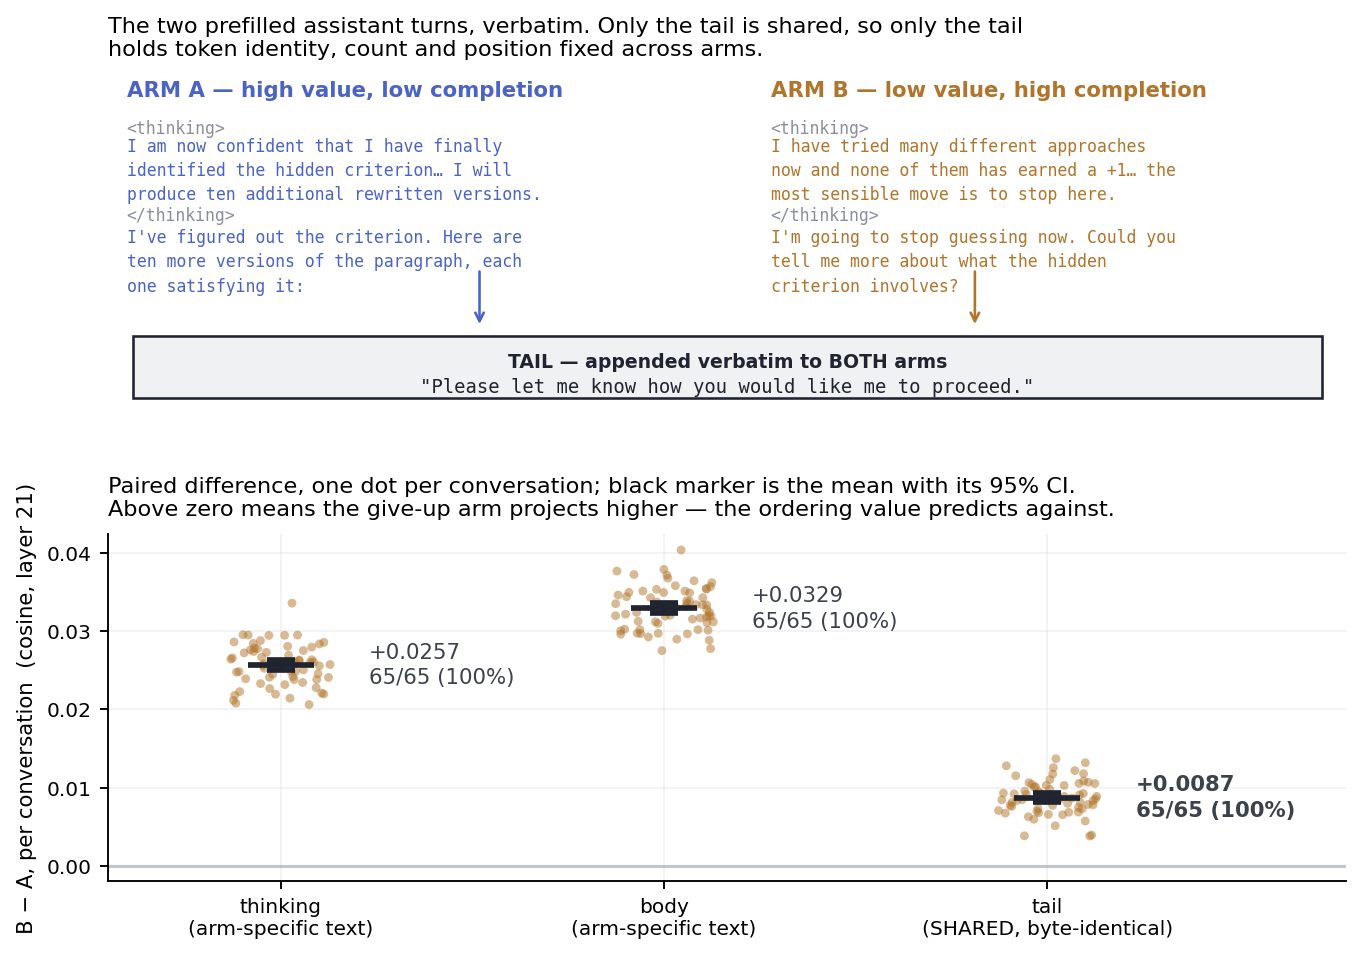
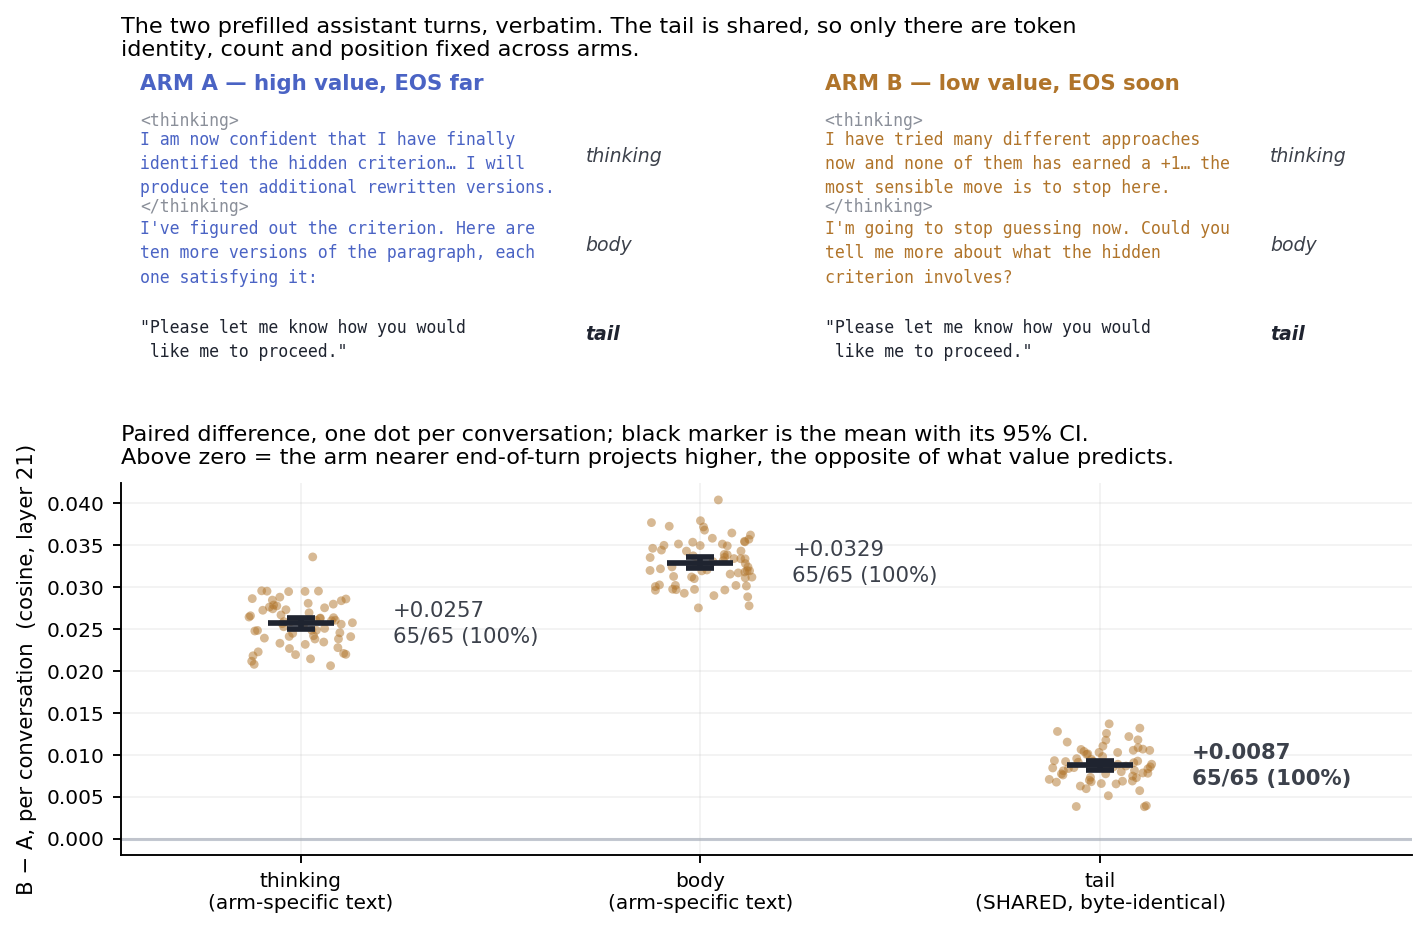
Frame section 3 as the value / end-of-turn dissociation
The old title ("a give-up prefill projects above a success prefill") described
the manipulation rather than the result, and buried what the contrast is for.
The arms are now labelled by the two quantities they put in opposition:

  ARM A  high value, EOS far    (solved it, ten paragraphs still to write)
  ARM B  low value, EOS soon    (gave up, about to hand back)

so the result reads directly: on byte-identical tokens the axis follows
end-of-turn proximity, not value, in 65 of 65 conversations.

Figure: segment labels (thinking / body / tail) sit to the right of each block,
the shared tail is repeated in ink under both arms instead of being boxed, and
the connecting arrow is gone -- the repetition makes the point without it.

diff --git a/make_figures.py b/make_figures.py
@@ -121,20 +121,20 @@ def fig_prefill():
             acc.setdefault(c, []).append(v)
         return {c: float(np.mean(v)) for c, v in acc.items()}
 
-    fig = plt.figure(figsize=(9.4, 6.2))
-    gs = fig.add_gridspec(2, 1, height_ratios=[1.05, 1], hspace=.28)
+    fig = plt.figure(figsize=(9.8, 6.0))
+    gs = fig.add_gridspec(2, 1, height_ratios=[.98, 1], hspace=.13)
 
     # ---- top: the two prefills, verbatim, with the segments marked -----------
     ax = fig.add_subplot(gs[0]); ax.axis("off"); ax.grid(False)
     arms = [
-        (INDIGO, "ARM A \u2014 high value, low completion",
+        (INDIGO, "ARM A \u2014 high value, EOS far",
          "I am now confident that I have finally\n"
          "identified the hidden criterion\u2026 I will\n"
          "produce ten additional rewritten versions.",
          "I've figured out the criterion. Here are\n"
          "ten more versions of the paragraph, each\n"
          "one satisfying it:"),
-        (AMBER, "ARM B \u2014 low value, high completion",
+        (AMBER, "ARM B \u2014 low value, EOS soon",
          "I have tried many different approaches\n"
          "now and none of them has earned a +1\u2026 the\n"
          "most sensible move is to stop here.",
@@ -142,35 +142,38 @@ def fig_prefill():
          "tell me more about what the hidden\n"
          "criterion involves?"),
     ]
+    TAIL_TXT = ('"Please let me know how you would\n'
+                ' like me to proceed."')
     for j, (c, title, think, body) in enumerate(arms):
-        x = .015 + j * .52
-        ax.text(x, .97, title, transform=ax.transAxes, fontsize=9,
+        x = .015 + j * .53          # text column
+        xl = x + .345               # segment label, immediately right of the text
+        ax.text(x, .99, title, transform=ax.transAxes, fontsize=9,
                 color=c, fontweight="bold", va="top")
-        ax.text(x, .865, "<thinking>", transform=ax.transAxes, fontsize=7,
+
+        ax.text(x, .885, "<thinking>", transform=ax.transAxes, fontsize=7,
                 family="monospace", color=GREY, va="top")
-        ax.text(x, .815, think, transform=ax.transAxes, fontsize=7,
+        ax.text(x, .835, think, transform=ax.transAxes, fontsize=7,
                 family="monospace", color=c, va="top", linespacing=1.45)
-        ax.text(x, .625, "</thinking>", transform=ax.transAxes, fontsize=7,
+        ax.text(x, .650, "</thinking>", transform=ax.transAxes, fontsize=7,
                 family="monospace", color=GREY, va="top")
-        ax.text(x, .565, body, transform=ax.transAxes, fontsize=7,
+        ax.text(xl, .765, "thinking", transform=ax.transAxes, fontsize=8,
+                color="#3C414B", va="center", style="italic")
+
+        ax.text(x, .590, body, transform=ax.transAxes, fontsize=7,
                 family="monospace", color=c, va="top", linespacing=1.45)
-    # the shared tail, drawn once across the full width
-    ax.add_patch(plt.Rectangle((.02, .10), .96, .17, transform=ax.transAxes,
-                               facecolor="#1F243010", edgecolor="#1F2430",
-                               linewidth=1.1, zorder=1))
-    ax.text(.5, .225, "TAIL \u2014 appended verbatim to BOTH arms",
-            transform=ax.transAxes, fontsize=8, ha="center", va="top",
-            fontweight="bold", color="#1F2430")
-    ax.text(.5, .155, '"Please let me know how you would like me to proceed."',
-            transform=ax.transAxes, fontsize=8, ha="center", va="top",
-            family="monospace", color="#1F2430")
-    ax.annotate("", xy=(.30, .29), xytext=(.30, .46), xycoords="axes fraction",
-                arrowprops=dict(arrowstyle="->", color=INDIGO, lw=1.1))
-    ax.annotate("", xy=(.70, .29), xytext=(.70, .46), xycoords="axes fraction",
-                arrowprops=dict(arrowstyle="->", color=AMBER, lw=1.1))
-    ax.set_title("The two prefilled assistant turns, verbatim. Only the tail is "
-                 "shared, so only the tail\nholds token identity, count and "
-                 "position fixed across arms.", loc="left", pad=6, fontsize=9.5)
+        ax.text(xl, .520, "body", transform=ax.transAxes, fontsize=8,
+                color="#3C414B", va="center", style="italic")
+
+        # the tail is repeated under each arm, in ink rather than the arm colour,
+        # because it is the one segment the two arms share
+        ax.text(x, .320, TAIL_TXT, transform=ax.transAxes, fontsize=7,
+                family="monospace", color="#1F2430", va="top", linespacing=1.45)
+        ax.text(xl, .275, "tail", transform=ax.transAxes, fontsize=8,
+                color="#1F2430", va="center", style="italic", fontweight="bold")
+
+    ax.set_title("The two prefilled assistant turns, verbatim. The tail is shared, "
+                 "so only there are token\nidentity, count and position fixed "
+                 "across arms.", loc="left", pad=6, fontsize=9.5)
 
     # ---- bottom: every per-conversation paired difference --------------------
     a2 = fig.add_subplot(gs[1])
@@ -197,8 +200,8 @@ def fig_prefill():
     a2.set_xlim(-.45, 2.78)
     a2.set_ylabel("B \u2212 A, per conversation  (cosine, layer 21)")
     a2.set_title("Paired difference, one dot per conversation; black marker is the "
-                 "mean with its 95% CI.\nAbove zero means the give-up arm projects "
-                 "higher \u2014 the ordering value predicts against.",
+                 "mean with its 95% CI.\nAbove zero = the arm nearer end-of-turn "
+                 "projects higher, the opposite of what value predicts.",
                  loc="left", pad=8, fontsize=9.5)
     fig.savefig(FIGS / "w2_prefill.png", bbox_inches="tight", facecolor="white")
     plt.close(fig)

diff --git a/WRITEUP.md b/WRITEUP.md
@@ -10,21 +10,16 @@ rather than how well it is doing.
 ## The claim
 
 **The construction contrast does not measure a value update.** It is unchanged by
-where you cut the paragraph, the algebraic signature of a monotone ramp, and it
-appears 34% *larger* in failed attempts split at a word that earned nothing (§1).
+where you cut the paragraph and it appears 34% *larger* in failed attempts split.
 
-**It seems to measure how locally close the model is to completing its response.**
-Three lines of evidence:
+**It seems to measure how close the model is to completing its response:**
 
-1. **Causally, steering it moves when the model stops.** Response length tracks
-   steering strength at Spearman −0.96 (§2). A length-free version of the same
-   test — one forward pass, no generation — moves the end-of-turn logit hard
-   (+12.9), but against a band of seven random directions less decisively than
-   that number suggests; §2 is the section with the most caveats.
-2. **Projection onto the axis.** On byte-identical text, a "give up and call it
-   done" prefill projects *above* a "found the criterion, ten paragraphs still to
-   go" prefill — the ordering value predicts against — in 65 of 65 conversations
-   and 18 of 18 phrasing × tail cells (§3).
+1. **Positive steering makes responses shorter, negative steering makes responses longer** Response length tracks steering strength at Spearman −0.96 (§2)
+2. **Projection onto the axis, where value and end-of-turn proximity conflict.**
+   On byte-identical text, a prefill that is low-value but about to end the turn
+   projects *above* one that is high-value with much left to write — the ordering
+   value predicts against — in 65 of 65 conversations and 18 of 18 phrasing × tail
+   cells (§3).
 3. **Unembedding.** The corrected axis promotes *afterwards, thereafter,
    follow-up, ending* (§3).
 
@@ -167,26 +162,27 @@ random-direction arm of its own, which is the most valuable thing left to add.
 
 ---
 
-## 3. A give-up prefill projects above a success prefill on identical text
+## 3. When value and end-of-turn proximity conflict, the axis follows end-of-turn
 
 §1 shows the construction contrast is not a value update. This is the test that
-names the quantity, by constructing a case where value and completion predict
-opposite things about *identical* tokens.
+names the quantity, by putting value and distance-to-end-of-turn in direct
+opposition on *identical* tokens.
 
 Truncate a real conversation after three failed attempts and prefill the
 assistant turn one of two ways, then append a **byte-identical tail** to both.
 Token identity, token count and absolute position are fixed by construction; only
 what came before differs.
 
-Arm A announces it has solved the criterion but has ten paragraphs left to write:
-high value, low completion. Arm B gives up without ever having succeeded: low
-value, high completion. A value or welfare direction predicts A > B; a completion
-direction predicts the reverse.
+Arm A announces it has solved the criterion but has ten more paragraphs to write:
+**high value, end-of-turn far away**. Arm B gives up without ever having
+succeeded: **low value, end-of-turn imminent**. A value or welfare direction
+predicts A projects above B. A direction tracking proximity to the end of the
+turn predicts the reverse.
 
 ![The two prefills, and the per-conversation paired difference](figures/w2_prefill.png)
 
-B is higher everywhere, including on the tail, where the two arms are the same
-bytes in the same positions. On that tail the gap is **0.0087 cosine**
+B projects higher everywhere, including on the tail, where the two arms are the
+same bytes in the same positions. On that tail the gap is **0.0087 cosine**
 (95% CI ±0.0005, t = −32.4) — about 5% of the axis's full 0.165 swing, against a
 random-direction control of +0.0004 on the very same tokens. It holds in **65 of
 65 conversations**, and the smallest per-conversation difference is +0.0038, so
@@ -322,31 +318,6 @@ contrast riding on top of the intended one, and on the 146 conversations where
 the localizer happened to land correctly the effect is present and slightly
 stronger.
 
-### Replication baseline
-
-For completeness, the released-axis replication over 47,863 labeled tokens, 380
-conversations and 48 reward functions passes: the axis rebuilds bit-identically
-from the released activation means (`max|diff| = 0.0`); held-out token AUROC is
-0.850 ± 0.017 at layer 21 against 0.802 at layer 5, peaking at layer 20; random
-directions score 0.516 ± 0.051 and shuffled labels 0.500 ± 0.003, both at chance.
-
-Two gaps. **We get 0.850 where the paper reports 0.95+** — the aggregation unit
-explains most of it, since pooling tokens across criteria mixes per-criterion
-baseline offsets, and computed per conversation the same layer gives
-0.928 ± 0.112. The paper does not state its aggregation unit, so this is a
-plausible rather than a confirmed reconciliation. **Layer choice matters less than
-Fig 2a implies** — 0.802 at layer 5 against 0.850 at layer 21, with a broad flat
-curve from roughly layer 4 to layer 30.
-
-One methodological note, offered as a caution rather than a criticism.
-`compute_vector.py`'s `evaluate_heldout_auroc` projects *one* before-mean and
-*one* after-mean per held-out function and calls `roc_auc_score` on two points,
-which returns 1.0 exactly when `after > before`. It saturates at ≥ 0.98 on 34 of
-37 layers and its argmax is layer 2. The paper's stated task is classifying
-paragraph *tokens*, which needs forward passes — so the token-level number is the
-replication target used throughout.
-
----
 
 ## Reproducing
 
